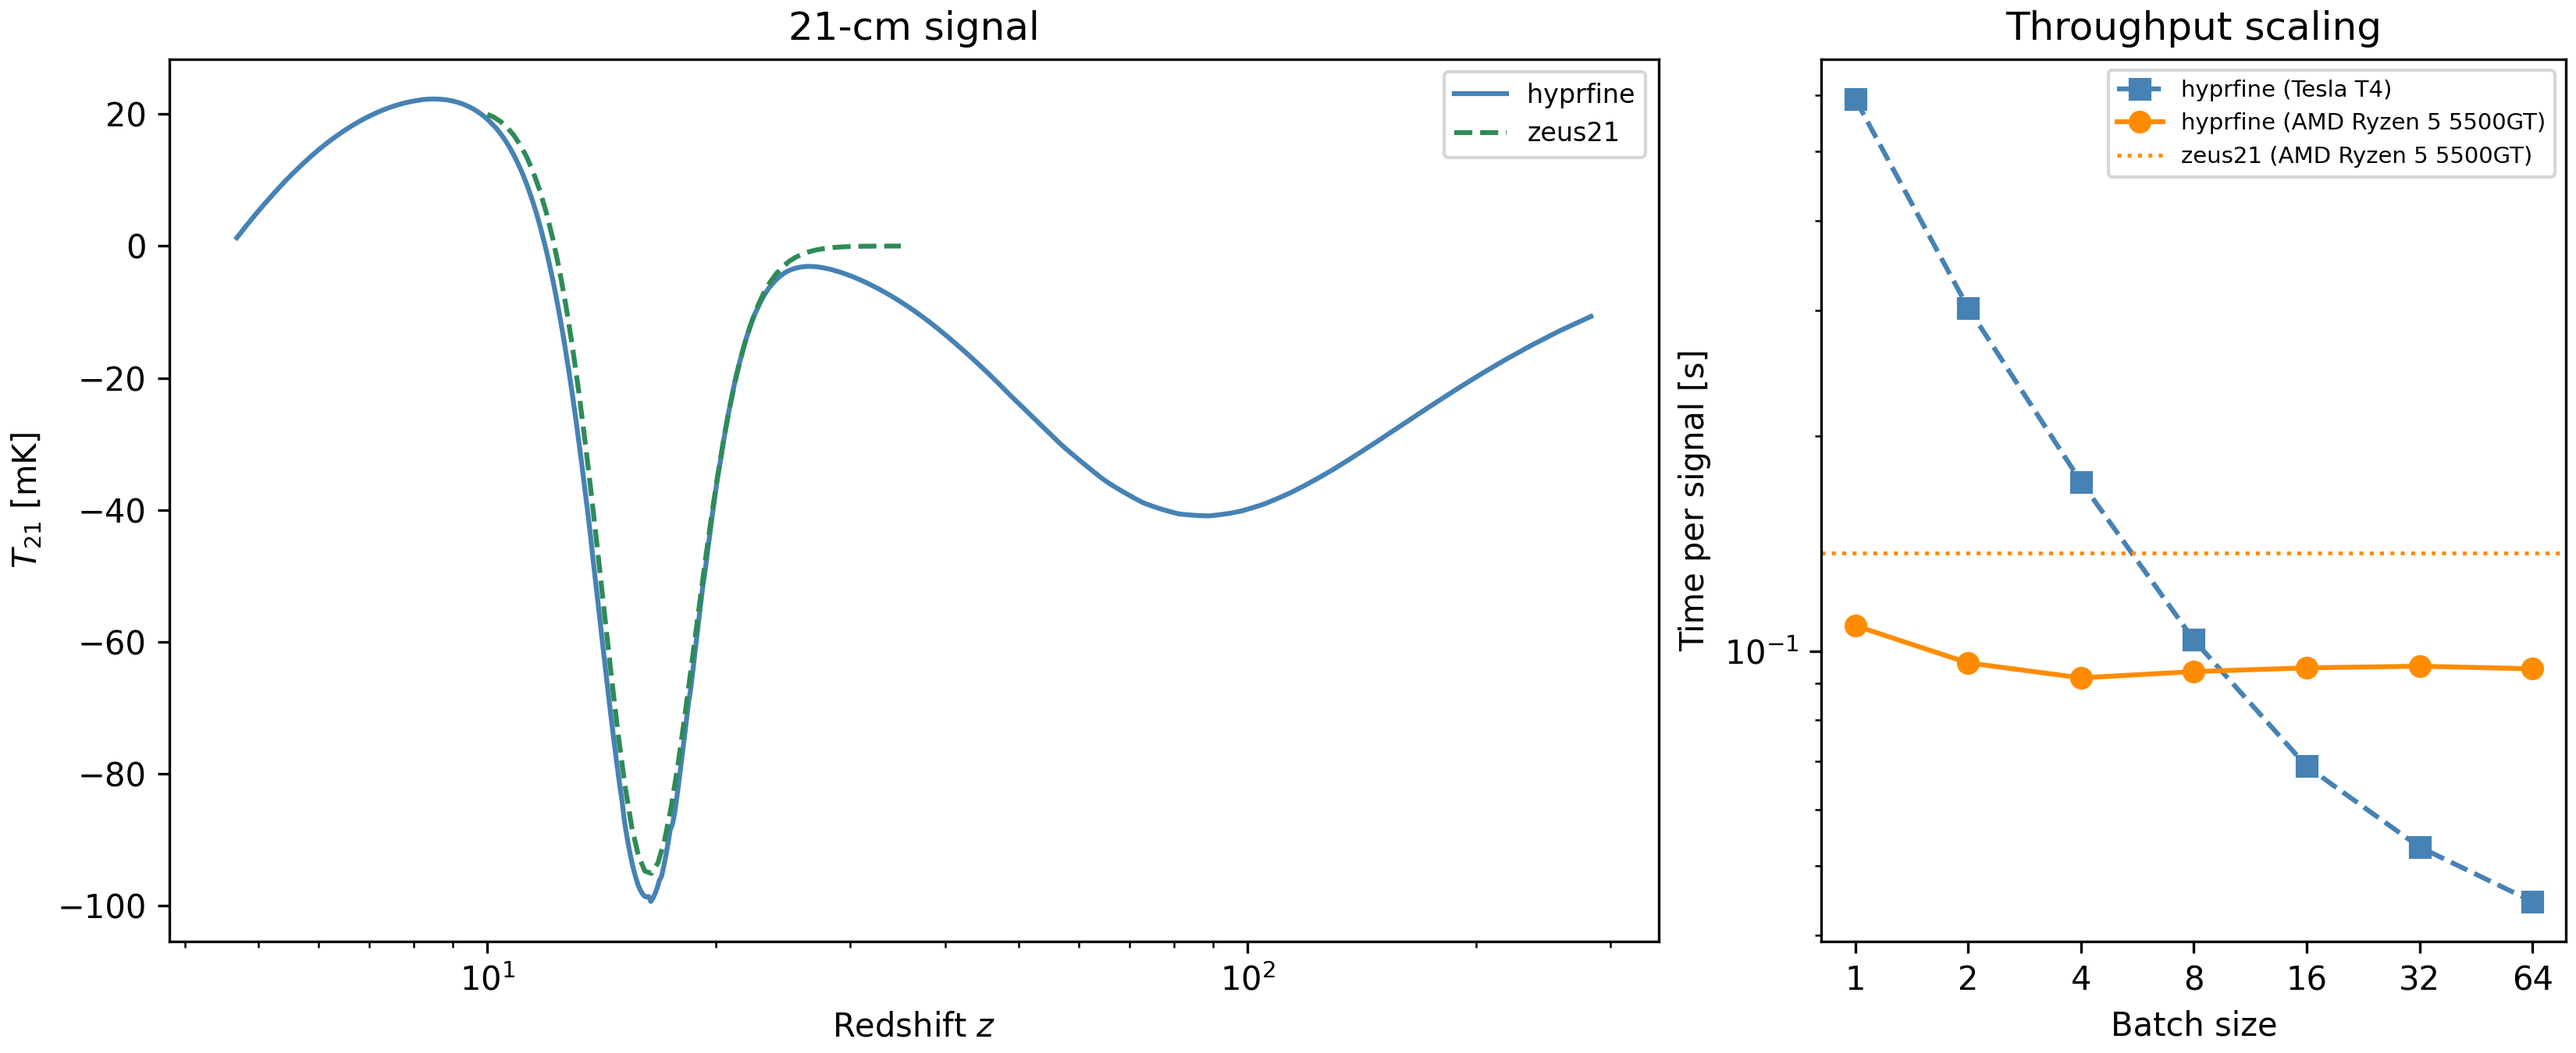
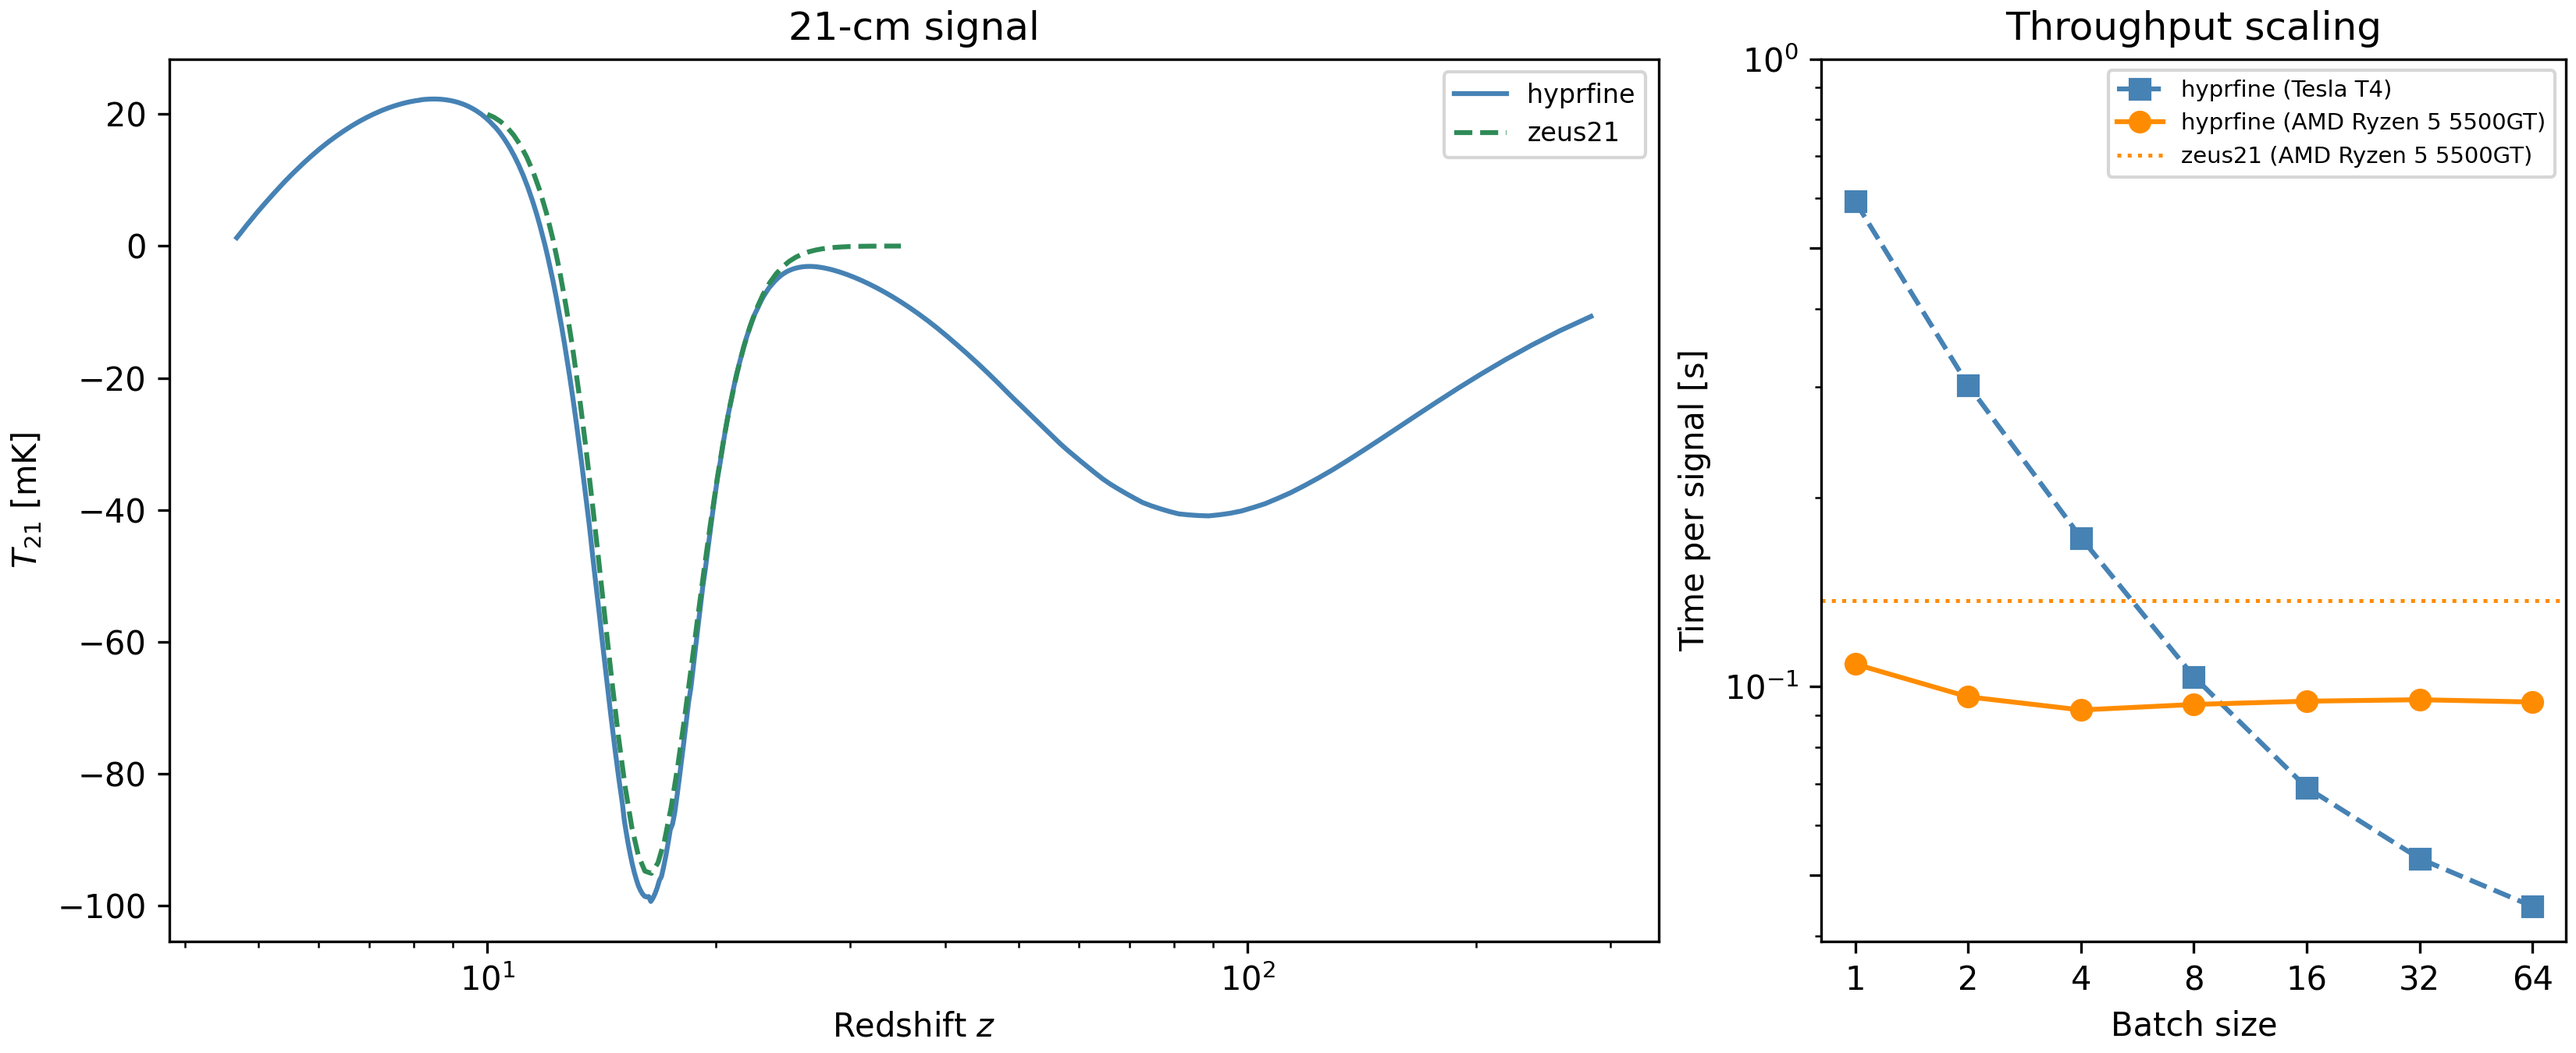
fiddling with image for the paper draft

diff --git a/bin/benchmark_plot.py b/bin/benchmark_plot.py
@@ -95,6 +95,7 @@ ax_batch.set_yscale("log")
 bs0 = datasets[0]["batch_sizes"]
 ax_batch.set_xticks(bs0)
 ax_batch.set_xticklabels([str(b) for b in bs0])
+ax_batch.set_yticks([0.05, 0.1, 0.5, 1])
 ax_batch.legend(fontsize=7)
 
 plt.savefig(args.output, dpi=300)

diff --git a/paper.md b/paper.md
@@ -32,6 +32,10 @@ $C^2$-ray [@Mellema2006C2ray] is a numerical code written in Fortran90 focused o
 
 Two widely used semi-numerical codes are 21cmFAST and 21cmSPACE. 21cmFAST, like pyC$^2$ray is an open source code base written with Python and C.
 
+hyprfine is an analytic code and is most similar to zeus21 and ECHO21.
+
+![\textbf{Left:} An example 21-cm signal from hyprfine and zeus21 with the same paraemters. \textbf{Right:} The run time of hyprfine per signal on an AMD Ryzen 5 and a Tesla T4 compared to the value for zeus21. \label{fig:benchmark}](bin/benchmark.png)
+
 # Software design
 
 # Research impact statement
